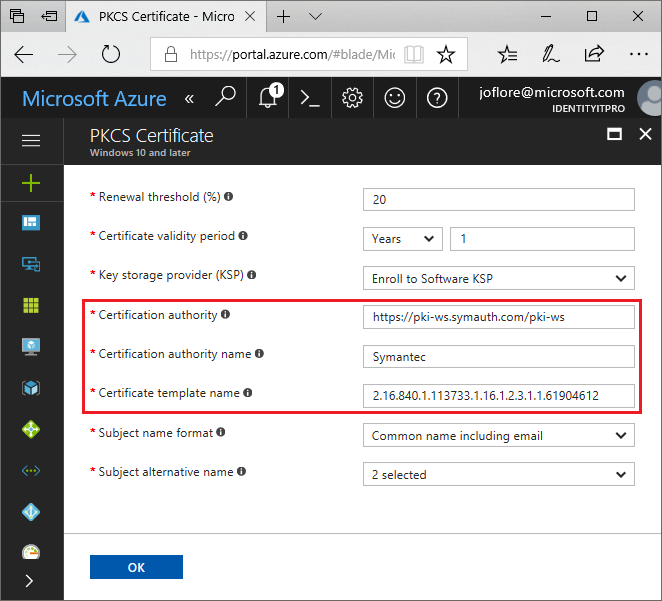
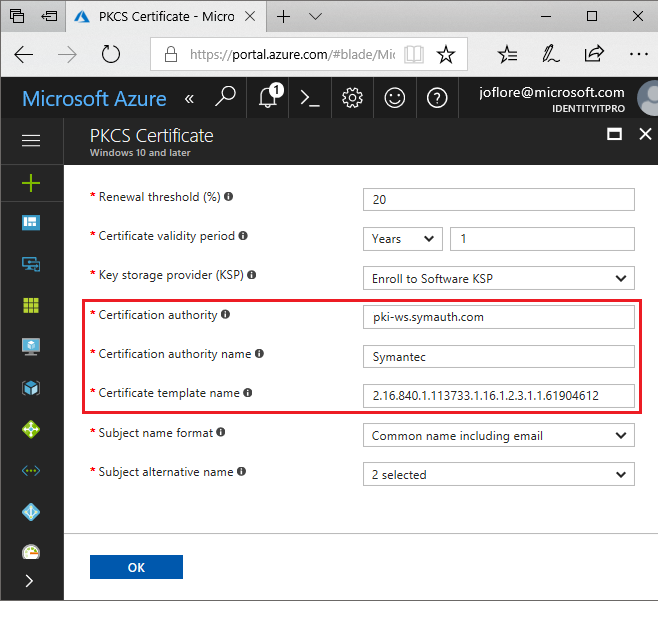
Update based on feedback from Venkat

diff --git a/intune/certificates-symantec-configure.md b/intune/certificates-symantec-configure.md
@@ -37,7 +37,7 @@ The Symantec PKI Manager Web Service is referred as Symantec CA throughout this 
 * SCEP Certificates from a Microsoft CA
 * PKCS Certificates from a Symantec CA
 
-If you want to use Intune Certificate Connector for Microsoft CA and Symantec CA, you must complete the Intune Certificate Connector confuration for the Microsoft CA first then follow these steps to configure it for the Symantec CA.  For more details about configuring Intune Certificate Connector for a Microsoft CA, see [Configure and manage PKCS Certificates with Intune](certificates-scep-configure.md).
+If you want to use Intune Certificate Connector for Microsoft CA and Symantec CA, you must complete the Intune Certificate Connector confuration for the Microsoft CA first then follow these steps to configure it for the Symantec CA.  For more details about configuring Intune Certificate Connector for a Microsoft CA, see [How to configure certificates in Microsoft Intune](certificates-configure.md).
 
 ## Prepare to install Intune Certificate Connector
 
@@ -283,7 +283,7 @@ The Certificate Profile OID is associated with a Certificate Profile template in
 
     |PKCS Certificate Parameter | Value | Description |
     | --- | --- | --- |
-    | Certificate authority | pki-ws.symauth.com | This value must be Symantec CA base service URL without trailing slashes.  If you are not sure whether this is the correct base service URL for your Symantec CA subscription, contact Symantec Customer support. <br><br> If this URL is incorrect, Intune Certificate Connector won't issue PKCS Certificates from the Symantec CA.| 
+    | Certificate authority | pki-ws.symauth.com | This value must be Symantec CA base service FQDN without trailing slashes.  If you are not sure whether this is the correct base service FQDN for your Symantec CA subscription, contact Symantec Customer support. <br><br> If this FQDN is incorrect, Intune Certificate Connector won't issue PKCS Certificates from the Symantec CA.| 
     | Certificate authority name | Symantec | This value must be the string **Symantec**. <br><br> If there is any change to this value, Intune Certificate Connector won't issue PKCS Certificates from the Symantec CA.|
     | Certificate template name | Certificate Profile OID from Symantec CA. <br><br> Ex: `2.16.840.1.113733.1.16.1.2.3.1.1.61904612`| This value must be a Certificate Profile OID obtained in the previous section from the Symantec CA Certificate Profile template. <br><br> If Intune Certificate Connector cannot find a certificate template associated with this Certificate Profile OID in the Symantec CA, it won't issue PKCS certificates from the Symantec CA.|
 
@@ -309,11 +309,11 @@ Intune Certificate Connector Service logs are available in `%ProgramFiles%\Micro
 | --- | --- |
 | Unable to Sign-In with Intune tenant admin account on NDES Connector UI | This can happen when the on-premises Certificate Connector is not enabled in the Intune administration portal. To resolve this issue, use the following steps: <br><br> From Silver Light UI: <br> 1. Logon to the [Intune admin portal](https://admin.manage.microsoft.com) <br> 2. Click ADMIN <br> 3. Select Mobile Device Management > Certificate Connector <br> 4. Click **Configure On-premises Certificate Connector** <br> 5. Select the **Enable Certificate Connector** checkbox <br> 6. Click **OK**. <br><br>Or <br><br> From the Azure portal UI: <br> 1. Sign in to the [Azure portal](https://portal.azure.com) <br> 2. Go to Microsoft Intune <br> 3. Select **Device Configuration** > **Certificate Authority** <br> 4. Click **Enable**. <br><br> After completing the previous steps from either the Silver Light UI or the Azure portal, try to sign in with the same Intune tenant admin account in the NDES Connector UI. |
 | NDES Connector certificate could not be found. <br><br> System.ArgumentNullException: Value cannot be null. | Intune Certificate Connector shows this error if the Intune tenant administrator account has never signed in to the NDES Connector UI. <br><br> If this error persists, restart the Intune Service Connector. <br><br> 1. Open services.msc <br> 2. Select **Intune Connector Service**. <br> 3. Right click and select **Restart**.|
-| NDES Connector - IssuePfx -Generic Exception: <br> System.NullReferenceException: Object reference not set to an instance of an object. | This is a transient error. Restart the Intune Service Connector. <br><br> 1. Open services.msc <br> 2. Select **Intune Connector Service** <br> 3. Right-click and select **Restart**. |
-| Symantec Provider - Failed to get Symantec policy “The operation has timed out” | Intune Certificate Connector received operation time-out error while communicating with the Symantec CA. If this error continues to occur, increase the connection timeout value and try again. <br><br> To increase the connection timeout: <br> 1. Goto the NDES Connector computer 2. Open the `%ProgramFiles%\Microsoft Intune\NDESConnectorSvc\NDESConnector.exe.config` file in Notepad <br> 3. Increase the timeout value for the following parameter <br><br> `CloudCAConnTimeoutInMilliseconds` <br><br> 4. Restart the Intune Connector Service <br> If the issue persists, contact Symantec customer support. |
+| NDES Connector - IssuePfx -Generic Exception: <br> System.NullReferenceException: Object reference not set to an instance of an object. | This error is transient. Restart the Intune Service Connector. <br><br> 1. Open services.msc <br> 2. Select **Intune Connector Service** <br> 3. Right-click and select **Restart**. |
+| Symantec Provider - Failed to get Symantec policy “The operation has timed out” | Intune Certificate Connector received operation time-out error while communicating with the Symantec CA. If this error continues to occur, increase the connection timeout value and try again. <br><br> To increase the connection timeout: <br> 1. Goto the NDES Connector computer. <br>2. Open the `%ProgramFiles%\Microsoft Intune\NDESConnectorSvc\NDESConnector.exe.config` file in Notepad. <br> 3. Increase the timeout value for the following parameter: <br><br> `CloudCAConnTimeoutInMilliseconds` <br><br> 4. Restart the Intune Connector Service. <br><br> If the issue persists, contact Symantec customer support. |
 | Symantec Provider - Failed to get client certificate | Intune Certificate Connector failed to retrieve the Resource Authorization Certificate from Local Machine-Personal certificate store. To resolve this issue, make sure to install the Resource Authorization Certificate in the Local Machine-Personal certificate store along with its private key. <br><br> **Note:** The Resource Authorization certificate must be obtained from the Symantec CA. For more details, contact Symantec customer support. | 
 | Symantec Provider - Failed to get Symantec policy “The request was aborted: Could not create SSL/TLS secure channel.” | This error occurs under the following scenarios: <br><br> 1. Intune Certificate Connector service doesn’t have enough permissions to read the Resource Authorization certificate along with its private key from the Local Machine-Personal certificate store. To resolve this issue, check the Connector service running context account in services.msc. The Connector service must run under NT AUTHORITY\SYSTEM context. <br><br> 2. The PKCS Certificate profile in the Intune admin portal may be configured with an invalid Symantec CA base service FQDN. The FQDN is similar to `pki-ws.symauth.com`. To resolve this issue, check with Symantec customer support whether the URL is correct for your subscription. <br><br> 3. Intune Certificate Connector fails to authenticate with Symantec CA using the Resource Authorization certificate because it is to unable to retrieve its private key. To resolve this issue, make sure to install the Resource Authorization certificate along with its private key in the Local Machine-Personal certificate store. <br><br> If the issue persists, contact Symantec customer support. |
-| Symantec Provider - Failed to get Symantec policy “A request element is not understood.” | Intune Certificate Connector failed to get the Symantec Certificate Profile template, because the Client Profile OID does not match the Intune Certificate Profile. In another case, Intune Certificate Connector is unable to find the certificate profile template that is associated with the given Client Profile OID in Symantec CA. <br><br> To resolve this issue, make sure to obtain the correct Client Profile OID from the Symantec Certificate template in the Symantec CA and update the PKCS Certificate profile in the Intune admin portal. <br><br> Obtain Client Profile OID from Symantec CA: <br> 1. Log on to Symantec CA admin portal. <br> 2. Click on Manage Certificate Profiles <br> 3. Select the Certificate Profile that you intend to use. <br> 4. Obtain the Certificate Profile OID. It looks similar to the following example: <br> `Certificate Profile OID = 2.16.840.1.113733.1.16.1.2.3.1.1.47196109` <br><br> Update the PKCS Certificate profile with correct Certificate Profile OID: <br>1. Log on to Intune admin portal <br> 2. Go to the PKCS Certificate Profile and click **Edit**. <br> 3. Update the Certificate Profile OID in update in Certificate Template name field. <br> 4. Save the PKCS Certificate Profile. |
+| Symantec Provider - Failed to get Symantec policy “A request element is not understood.” | Intune Certificate Connector failed to get the Symantec Certificate Profile template, because the Client Profile OID does not match the Intune Certificate Profile. In another case, Intune Certificate Connector is unable to find the certificate profile template that is associated with the given Client Profile OID in Symantec CA. <br><br> To resolve this issue, make sure to obtain the correct Client Profile OID from the Symantec Certificate template in the Symantec CA. Then update the PKCS Certificate profile in the Intune admin portal. <br><br> Obtain Client Profile OID from Symantec CA: <br> 1. Log on to Symantec CA admin portal. <br> 2. Click on Manage Certificate Profiles <br> 3. Select the Certificate Profile that you intend to use. <br> 4. Obtain the Certificate Profile OID. It looks similar to the following example: <br> `Certificate Profile OID = 2.16.840.1.113733.1.16.1.2.3.1.1.47196109` <br><br> Update the PKCS Certificate profile with correct Certificate Profile OID: <br>1. Log on to Intune admin portal <br> 2. Go to the PKCS Certificate Profile and click **Edit**. <br> 3. Update the Certificate Profile OID in update in Certificate Template name field. <br> 4. Save the PKCS Certificate Profile. |
 | Symantec Provider - Policy Verification failed. <br><br> Attribute does not fall under Symantec supported Certificate template attributes list | The Symantec CA shows this message when there is discrepancy between the Symantec Certificate Profile template and the Intune Certificate Profile. This issue likely happened due to attribute mismatch in SubjectName or SubjectAltName. <br><br> To resolve this issue, make sure to select Intune supported attributes for SubjectName and SubjectAltName in the Symantec Certificate Profile template. For more information, see the Intune Supported attributes in the Certificate Parameters section. |
 | Some User devices are not receiving PKCS certificates from Symantec CA. | This issue happens when User UPN contains special characters like underscore (Example: `global_admin@intune.onmicrosoft.com`). <br><br> The Symantec CA doesn’t support special characters in mail_firstname and mail_lastname. <br><br> The following steps help resolve this issue: <br><br> 1.	Log on to Symantec CA admin portal. <br> 2.	Goto the Manage Certificate Profiles. <br> 3.	Click the Certificate Profile used for Intune. <br> 4.	Click the Customize options link. <br> 5.	Click the Advanced options button. <br> 6.	Under Certificate fields – Subject DN, add Common Name (CN) field and delete existing Common Name (CN) field. Add and delete must be performed together. <br> 7.	Click Save. <br><br> With the preceding change, the Symantec Certificate profile requests “CN=<upn>” instead of mail_firstname and mail_lastname. |
 | User manually deleted already deployed certificate from the device. | Intune redeploys the same certificate during next check-in or policy enforcement. In this case, NDES Connector doesn’t receive a PKCS Certificate request. |
